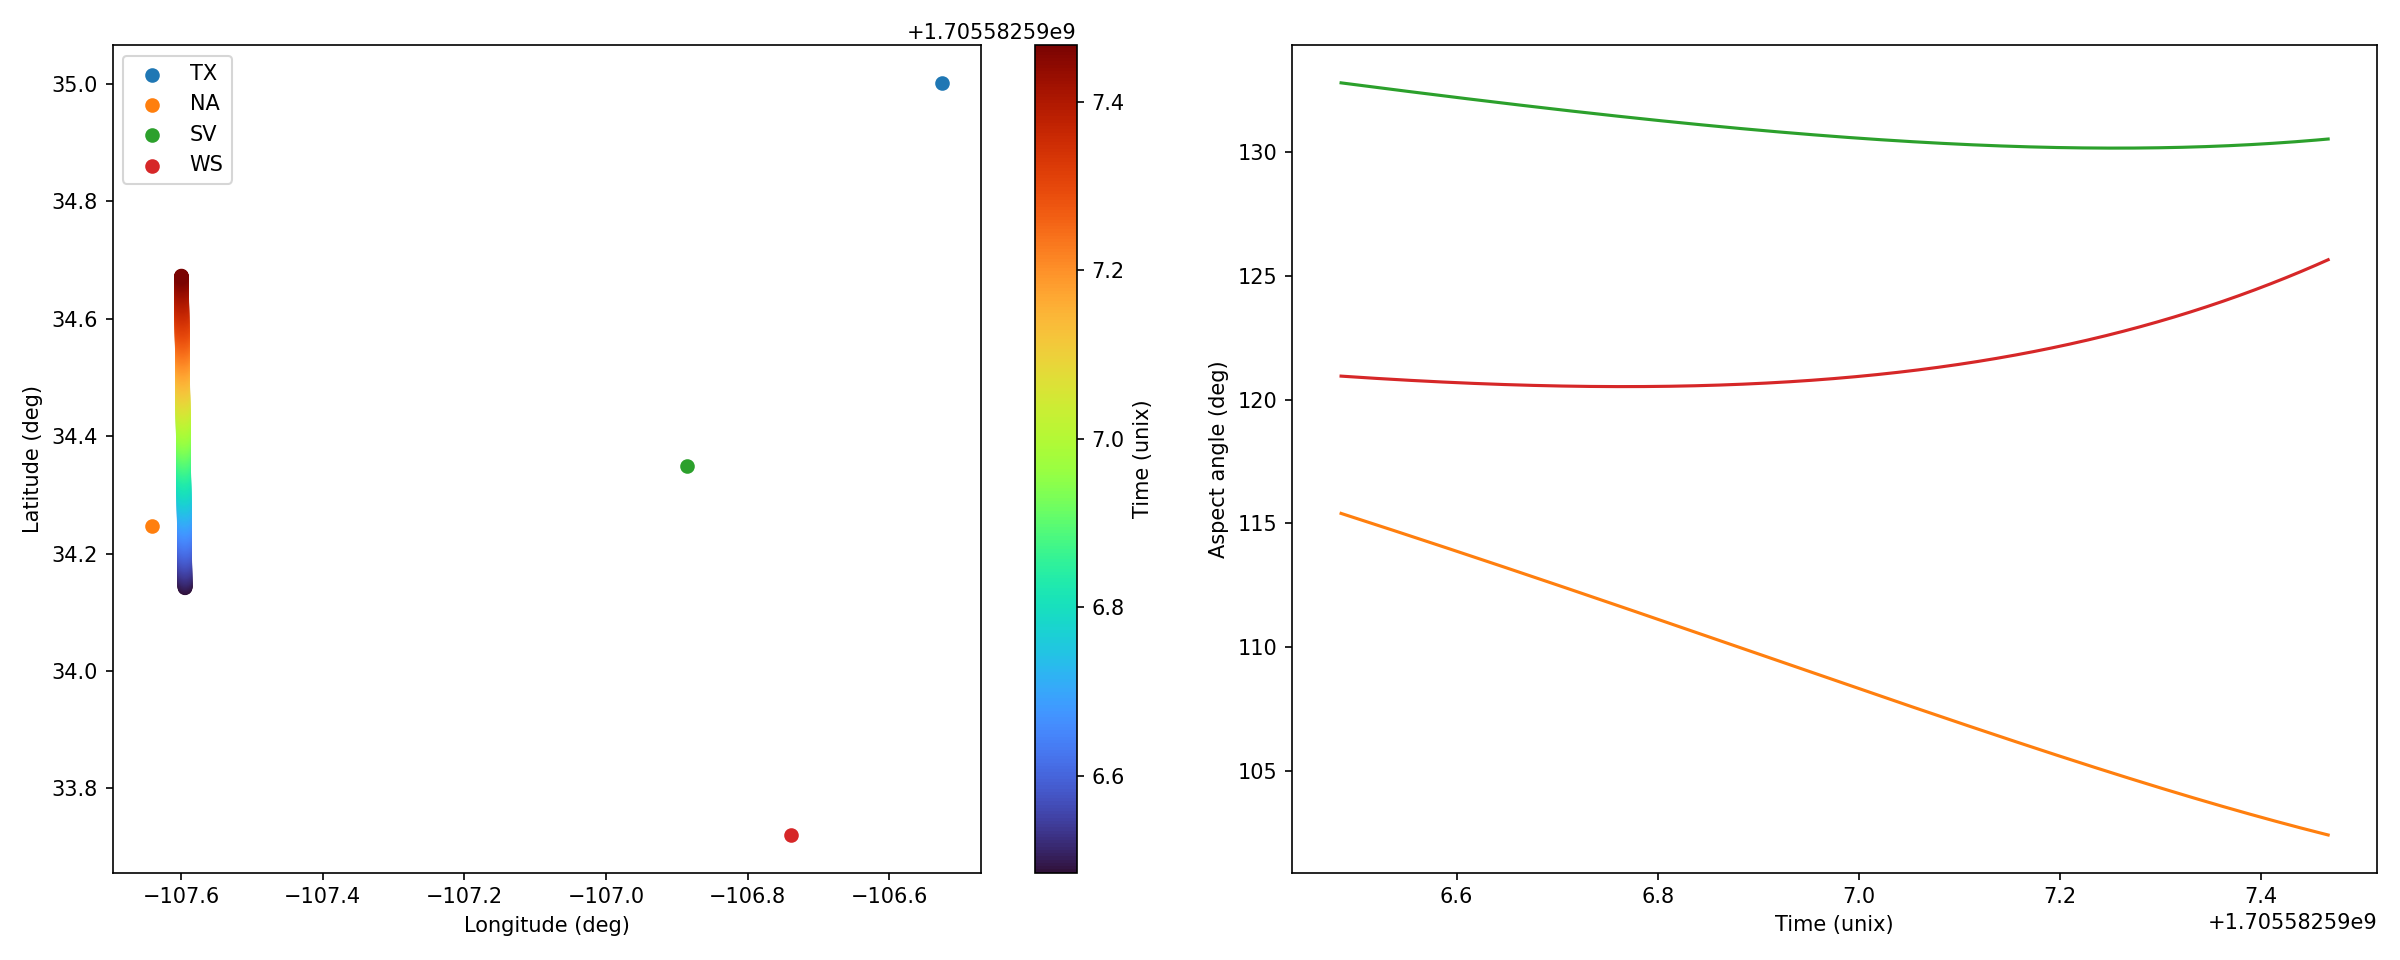
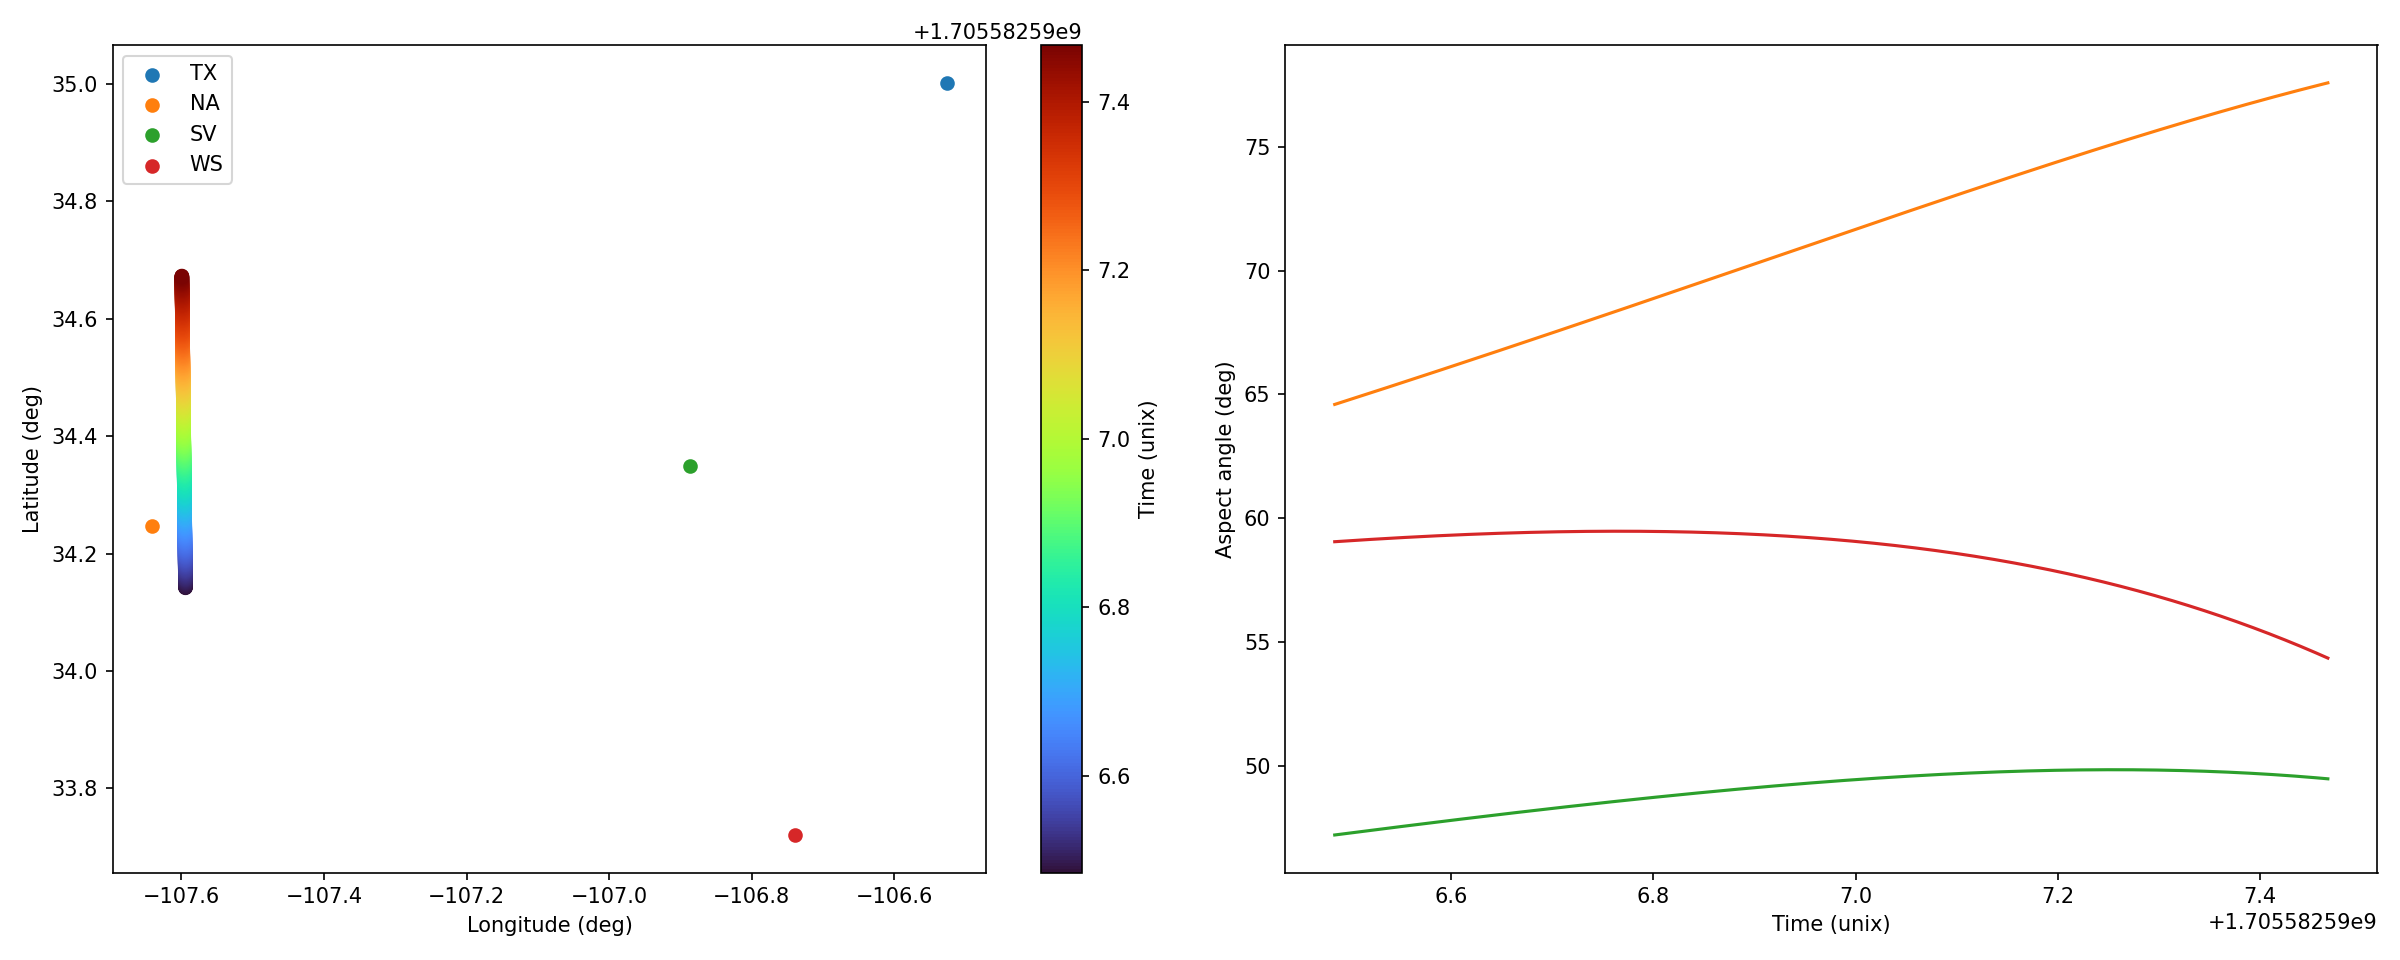
added aspect fix

diff --git a/aspect_angles.py b/aspect_angles.py
@@ -8,7 +8,7 @@ def aspect_angle(xyz,p_tx,p_rx):
     """
     a=p_tx[:].T-xyz
     
-    b=xyz-p_rx[:].T
+    b=p_rx[:].T-xyz
     print(b.shape)
 
 #    plt.plot(n.sqrt(n.sum(a*a,axis=1)))
